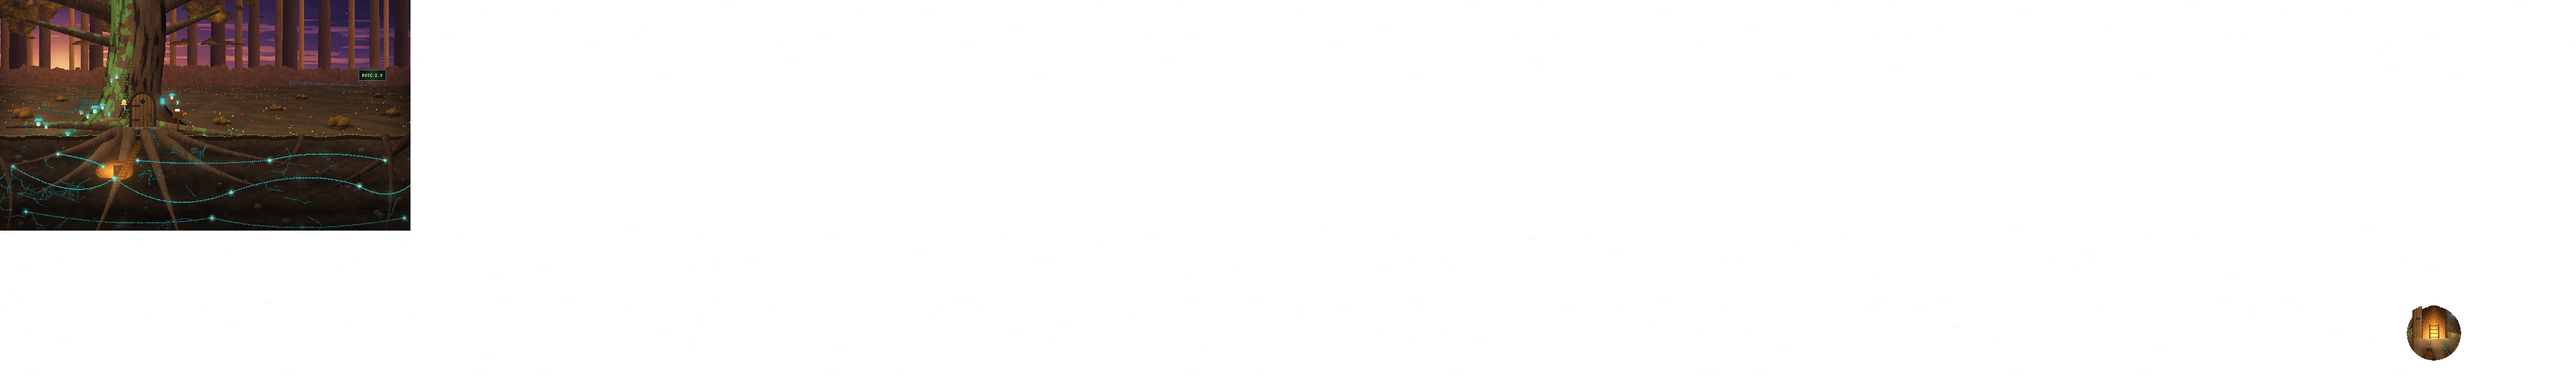
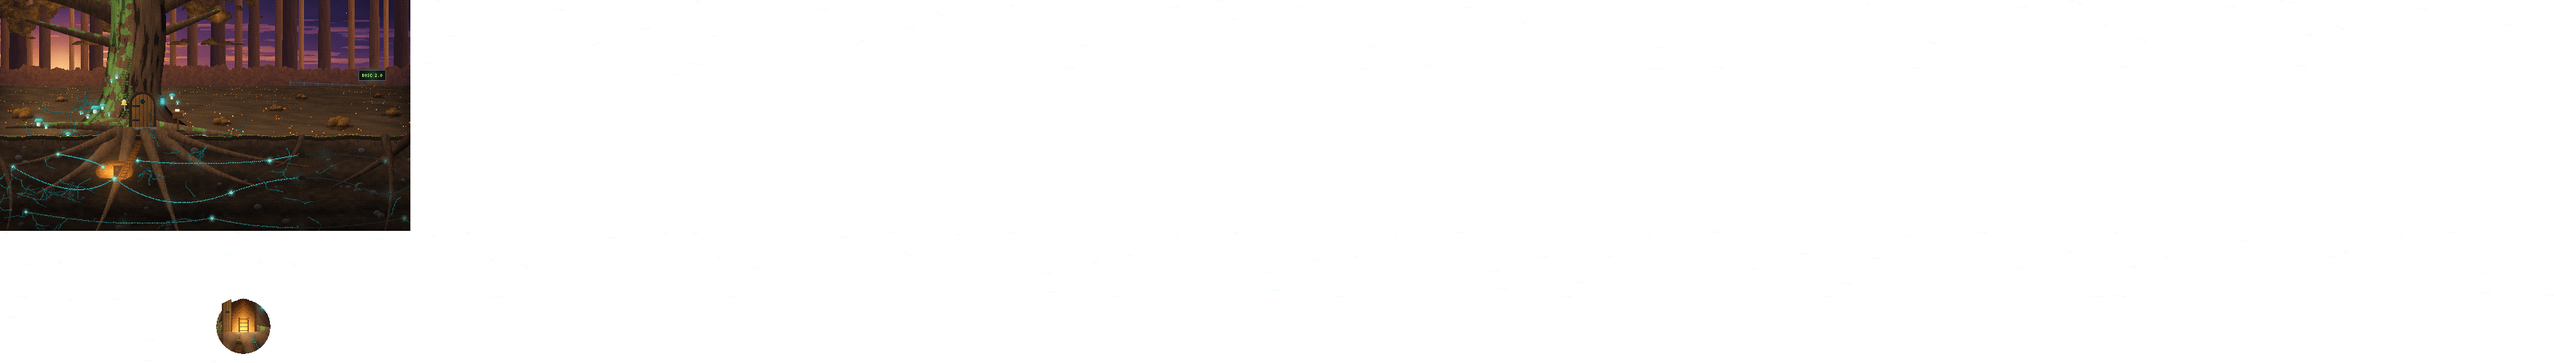
L'Última Arrel: al pròleg es veu que la Xarxa Miceli és tallada
Els fils principals que van cap al nord (cap a la tanca) s'apaguen passat un tall de terra remoguda, i els polsos de
llum no hi arriben. L'Espora, en arribar, mira avall cap als fils mentre diu que fa tres dies que no en té missatges.
Tasca 040.

Changed region(s): [[0.0, 0.0, 0.1868, 0.6608], [0.0623, 0.811, 0.1245, 0.9611], [0.934, 0.811, 0.9651, 0.9611]]

diff --git a/games/ultima-arrel/adapters/benne/tools/hd640/rooms/proleg_roure.py b/games/ultima-arrel/adapters/benne/tools/hd640/rooms/proleg_roure.py
@@ -15,15 +15,69 @@ from PIL import Image
 
 import hd640  # noqa: F401  (abans que cap hd.rooms: posa la llibreria a 640×360)
 from hd.rooms.comu import _diff
-from hd640.rooms.vora_comu import Mode, Llenc, porta_oberta
+from hd640.rooms.vora_comu import EARTH, Mode, Llenc, porta_oberta
 import hd640.rooms.portada as portada
 
 LIGHT = portada.LIGHT
 OY = portada.OY
 
 
+# La Xarxa Miceli, tallada (tasca 040): passat CUT_X, els fils principals que van cap al nord (la tanca, a la dreta)
+# s'apaguen, i al tall hi ha la terra remoguda. Els polsos de llum s'hi aturen.
+CUT_X = 468
+FILS_TALLATS = (2, 3, 6, 8)
+
+
+def _tall_xarxa(img):
+    a = np.asarray(img.convert('RGBA')).astype(np.float32)
+    h, w = a.shape[:2]
+    mask = np.zeros((h, w), np.float32)
+    for k in FILS_TALLATS:
+        p = portada.FILS[k]
+        for i in range(400):
+            x, y = portada._bez(p, i / 400)
+            if x <= CUT_X:
+                continue
+            X, Y = int(x), int(y) + OY
+            for dy in range(-9, 10):
+                for dx in range(-9, 10):
+                    if 0 <= X + dx < w and 0 <= Y + dy < h:
+                        v = max(0.0, 1 - (dx * dx + dy * dy) ** 0.5 / 9.5)
+                        mask[Y + dy, X + dx] = max(mask[Y + dy, X + dx], v)
+    rgb = a[..., :3]
+    lum = rgb.mean(axis=2, keepdims=True)
+    # el turquesa apagat: sense color, més fosc (com un fil mort)
+    mort = lum * np.array([0.5, 0.45, 0.42]) * 0.7
+    turq = np.clip((rgb[..., 1:2] + rgb[..., 2:3]) / 2 - rgb[..., 0:1], 0, 255) / 255
+    k = (mask[..., None] * np.clip(turq * 3.0, 0, 1))
+    a[..., :3] = rgb * (1 - k) + mort * k
+    out = Image.fromarray(a.astype(np.uint8), 'RGBA').copy()
+    # el tall: terra remoguda i els caps dels fils esfilagarsats, foscos
+    cv = Llenc(OY, LIGHT, img=out)
+    for k in FILS_TALLATS:
+        p = portada.FILS[k]
+        t = next(i / 400 for i in range(400) if portada._bez(p, i / 400)[0] > CUT_X)
+        x, y = portada._bez(p, t)
+        cv.disc(x + 2, y, 6, 4, EARTH, 1.4, lit=0)
+        for j in range(4):                                       # els caps esfilagarsats
+            cv.flat(x - 3 - j, y - 1 + (j % 3) - 1, (60, 120, 116) if j < 2 else (40, 70, 70))
+    return cv.img
+
+
 def bg(cv):
     portada.bg(cv)
+    cv.img = _tall_xarxa(cv.img)
+    cv.P = cv.img.load()
+
+
+def _pols_tallats():
+    """Els polsos de la portada, que s'aturen al tall: passat CUT_X (sota el terra) no n'hi arriba cap."""
+    frames = []
+    for f in portada._pols_frames():
+        a = np.asarray(f).copy()
+        a[portada.CUT + OY:, CUT_X:, 3] = 0
+        frames.append(Image.fromarray(a, 'RGBA'))
+    return frames
 
 
 def _prop(fn):
@@ -44,7 +98,7 @@ PROPS = {
 }
 
 ANIMS = {
-    'pols': portada.ANIMS['pols'],
+    'pols': {**portada.ANIMS['pols'], 'frames': _pols_tallats},
 }
 
 # L'Espora camina per l'herba de davant del roure (la porta: x 205..239, el graó a y ≈ 200 de pantalla). Entra de fora
